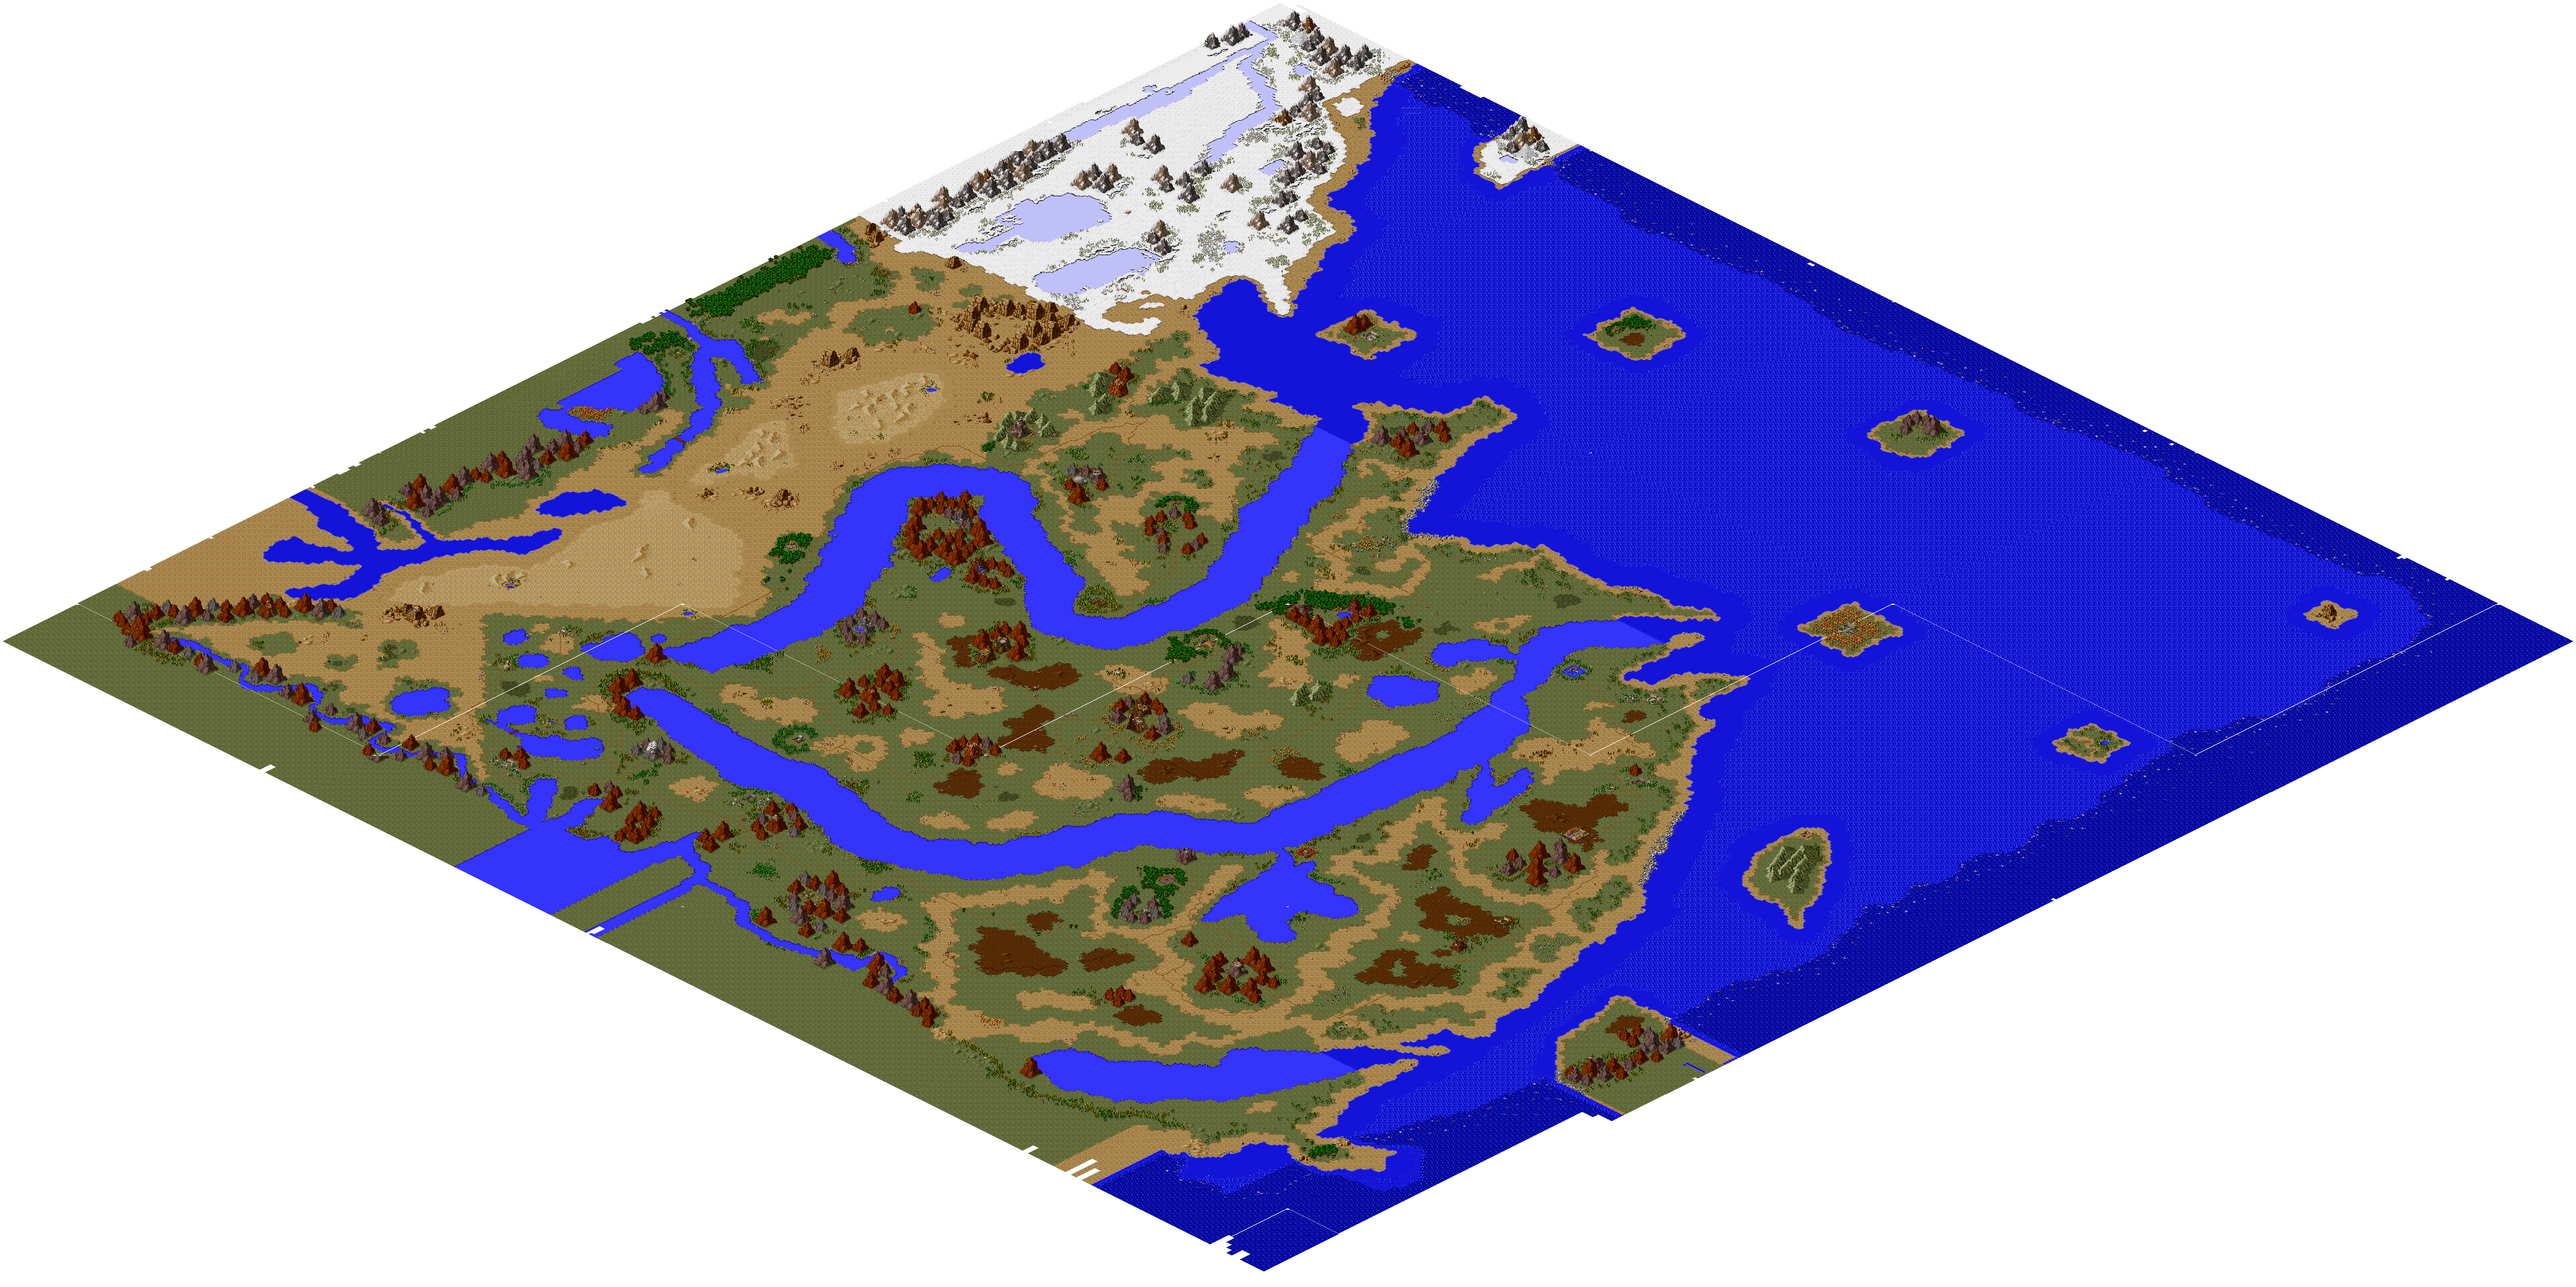
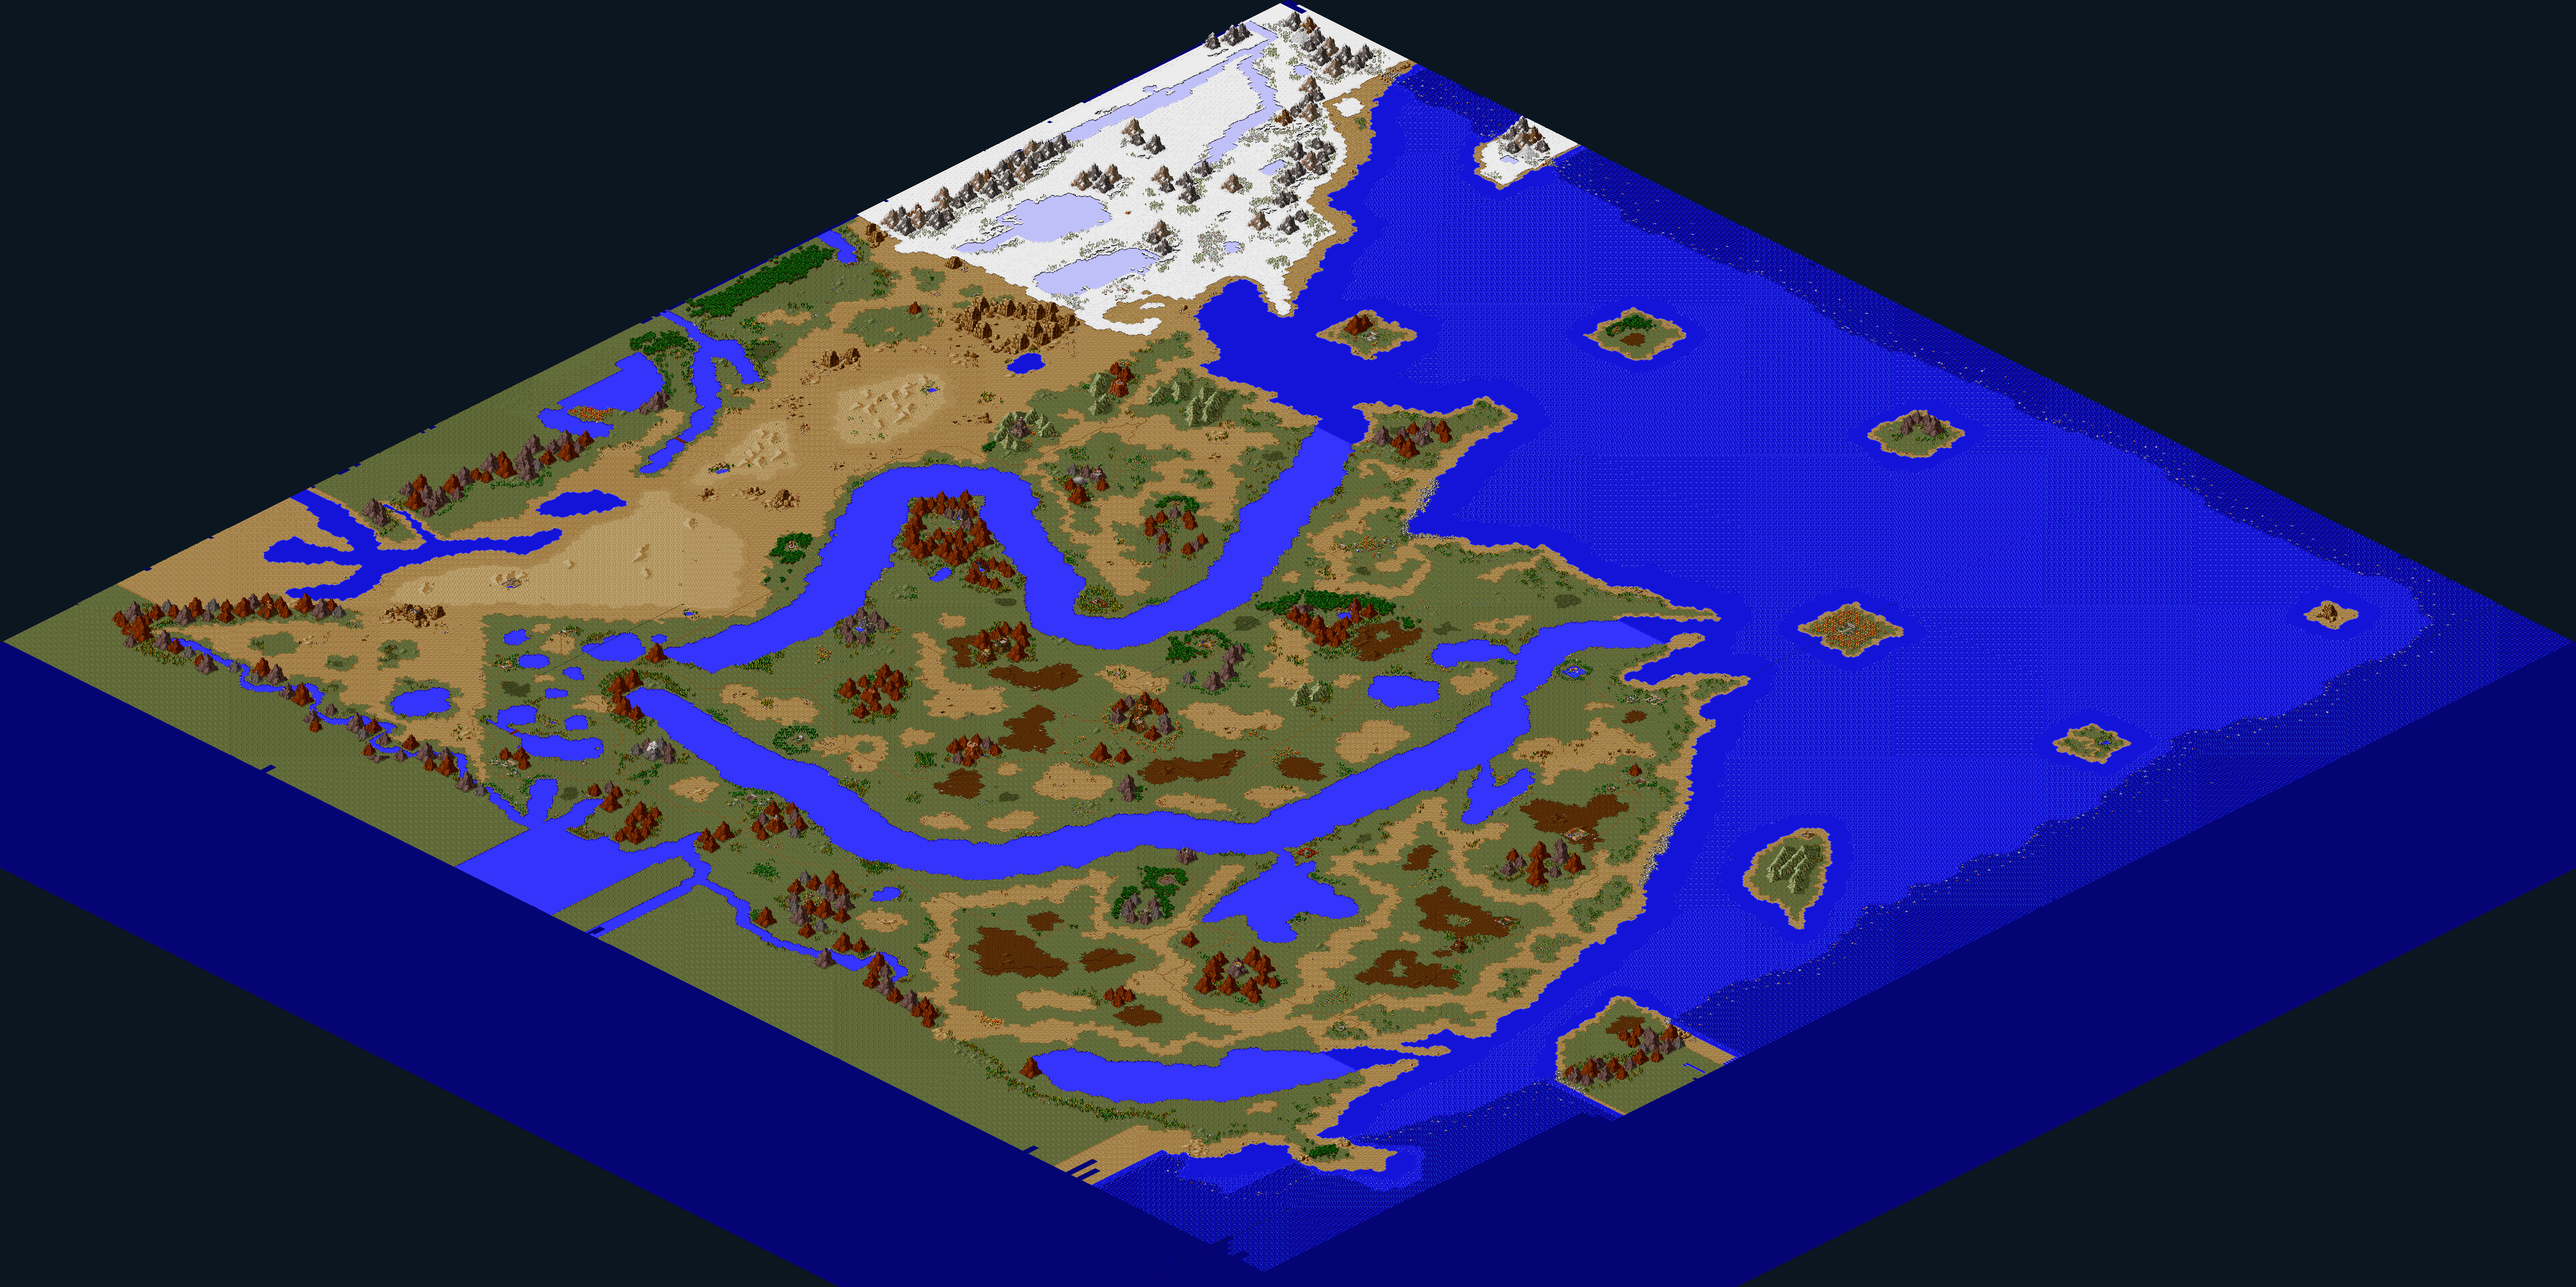
Draw floor in minimap.

diff --git a/src/scrollmap.py b/src/scrollmap.py
@@ -18,7 +18,7 @@ def add(a, b):
 def negate(a):
     return (-a[0], -a[1])
 
-CLIP = 1
+CLIP = 0
 
 class ScrollMap(sprite.Sprite):
     GX = config.textureXScale 
@@ -62,8 +62,8 @@ class ScrollMap(sprite.Sprite):
             (self.GX, self.GY),  # grid size
         )
 
-        self._gridTextureCache = pylru.lrucache(2 ** 12)
-        # self._gridTextureCache = {}
+        # self._gridTextureCache = pylru.lrucache(2 ** 12)
+        self._gridTextureCache = {}
         self._dirty = threading.Condition()
         self._swapped = False
         self._drawnPos = (-1, -1)
@@ -125,19 +125,19 @@ class ScrollMap(sprite.Sprite):
         with self.drawLock:
             x, y = self.currentPos
             x1, y1 = self._drawnPos
-            dir = minus(self.currentPos, self._drawnPos)
+            dir = minus((x, y), self._drawnPos)
             self._swapped = False
             image = self.drawImage
             centerX, centerY = image.get_rect().center
             centerY -= config.bottomPadding // 2
             GX, GY = self.GX, self.GY
-            utils.clear_surface(image)
             self.cnt = 0
 
             def convert(dx, dy, texture):
                 return (centerX + (dx - dy) * GX - texture.xoff,
                         centerY + (dx + dy) * GY - texture.yoff)
 
+            utils.clear_surface(image)
             # Draw floor
             floor = self.floorImage
             if dir in config.Directions.all:
@@ -147,7 +147,7 @@ class ScrollMap(sprite.Sprite):
                 for dx, dy in self.looper.iter_delta(dir):
                     texture = self.get_floor_texture((x + dx, y + dy))
                     if not texture:
-                        continue
+                        texture = self.textures.get(0)
                     floor.blit(texture.image, convert(dx, dy, texture))
                     self.cnt += 1
             else:
@@ -160,10 +160,6 @@ class ScrollMap(sprite.Sprite):
                         continue
                     floor.blit(texture.image, convert(dx, dy, texture))
                     self.cnt += 1
-            # rect = pg.Rect((0, 0), 
-            #     (GX * 2 + config.screenWidth, GY * 2 + config.screenHeight))
-            # rect.center = floor.get_rect().center
-            # image.blit(floor, (self.PAD_X - GX, self.PAD_Y - GY), rect)
             image.blit(floor, (0, 0))
 
             # Draw other
@@ -176,7 +172,7 @@ class ScrollMap(sprite.Sprite):
                 self.cnt += 1
 
             # utils.debug('cnt:', self.cnt)
-            self._drawnPos = self.currentPos
+            self._drawnPos = (x, y)
 
     def drawer(self):
         while not self._quit:
@@ -337,6 +333,15 @@ class ScrollMap(sprite.Sprite):
                     for y in range(blockDy):
                         if not 0 <= x < xmax or not 0 <= y < ymax:
                             continue
+                        # Draw floor
+                        texture = self.get_floor_texture((blockX + x, blockY + y))\
+                            or self.textures.get(0)
+                        spos = (
+                            tmpWidth / 2 - texture.xoff + (x - y) * self.GX, 
+                            -texture.yoff + (x + y + 1) * self.GY,
+                        )
+                        tmpSurface.blit(texture.image, spos)
+                        # Draw other
                         texture = self.get_grid_texture((blockX + x, blockY + y))
                         if texture:
                             spos = (
@@ -347,8 +352,8 @@ class ScrollMap(sprite.Sprite):
                         progress.update()
 
                 surface.blit(
-                    pg.transform.scale(tmpSurface, tmpScaleSize),
-                    minus(to_spos((blockX, blockY)), (tmpScaleSize[0] / 2 + .5, gy + .5))
+                    pg.transform.scale(tmpSurface, add((1, 1), tmpScaleSize)),
+                    minus(to_spos((blockX, blockY)), (tmpScaleSize[0] / 2, gy))
                 )
                 # print((blockX, blockY), to_spos((blockX, blockY)))
 

diff --git a/src/game.py b/src/game.py
@@ -259,13 +259,15 @@ Attributes:
             ])
         elif state in (GameState.SCENE_MAP, GameState.MAIN_MAP):
             screen.fill((0, 0, 0))
-            self.draw_sprite(self.currentMap)
+            map = self.currentMap
+            screen.blit(map.image, map.rect)
             if config.debugMargin:
                 rect = pg.Rect((config.debugMargin, config.debugMargin),
                     (config.screenWidth - 2 * config.debugMargin,
                      config.screenHeight - 2 * config.debugMargin),
                 )
                 pg.draw.rect(screen, (0xff, 0, 0), rect, 2)
+
             pg.display.update()
         else:
             # TODO

diff --git a/src/utils.py b/src/utils.py
@@ -95,7 +95,7 @@ class ProgressBar:
                 bar, self.cnt, self.total, 100 * self.cnt / self.total), end='')
 
 def new_surface(size):
-    surface = pg.Surface(size).convert()
+    surface = pg.Surface(size, 0, config.depthBits)
     surface.set_colorkey(config.colorKey)
     surface.fill(config.colorKey)
     return surface
